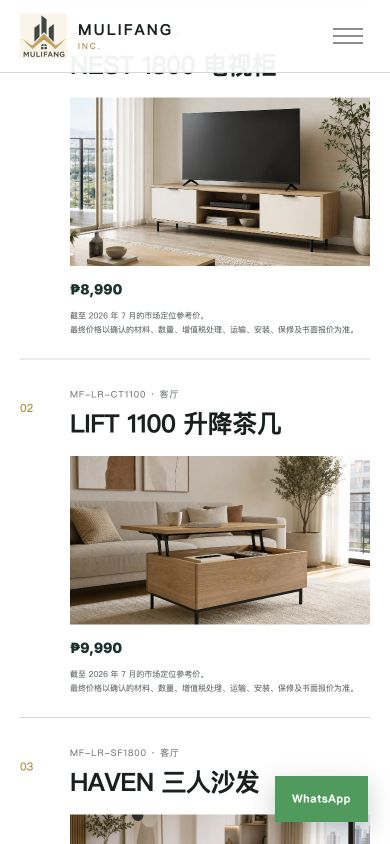
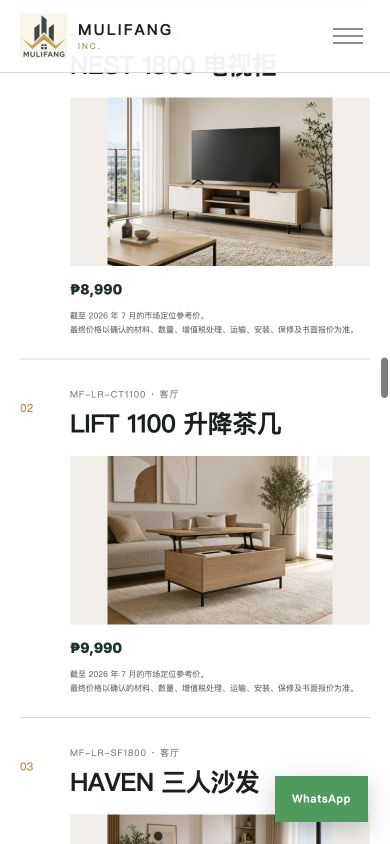
refine brand interior and launch thumbnails

diff --git a/app/globals.css b/app/globals.css
@@ -204,14 +204,14 @@ body.mobile-menu-open { overflow:hidden; }
 .principles-grid h3 { margin:80px 0 18px; font-size:27px; }
 .principles-grid p { color:#b9c5c1; font-size:14px; }
 .compact-product-grid { border-top:1px solid var(--line); }
-.compact-product-grid > article { display:grid; grid-template-columns:48px minmax(210px,.95fr) minmax(260px,1.1fr) minmax(220px,280px); gap:25px; align-items:center; padding:12px 15px; border-bottom:1px solid var(--line); }
+.compact-product-grid > article { display:grid; grid-template-columns:48px minmax(210px,.95fr) minmax(260px,1.1fr) minmax(220px,280px); gap:25px; align-items:center; padding:18px 15px; border-bottom:1px solid var(--line); }
 .compact-product-grid > article > a { display:contents; }
 .compact-product-grid > article:hover { background:var(--cream); }
 .compact-product-grid > article > a > span { color:var(--gold); font-size:11px; }
 .compact-product-grid small { color:#777f7d; font-size:9px; letter-spacing:.1em; text-transform:uppercase; }
 .compact-product-grid h3 { margin-top:4px; font-size:25px; }
-.compact-product-image { aspect-ratio:16/6; min-height:96px; }
-.compact-product-image img { object-fit:cover; }
+.compact-product-image { aspect-ratio:16/9; min-height:0; border-radius:0; background:#f2efe9; }
+.compact-product-image img { object-fit:contain!important; }
 .compact-product-grid .price-display { margin:0; }
 .collection-note { margin-top:28px; color:#6a7270; font-size:11px; }
 
